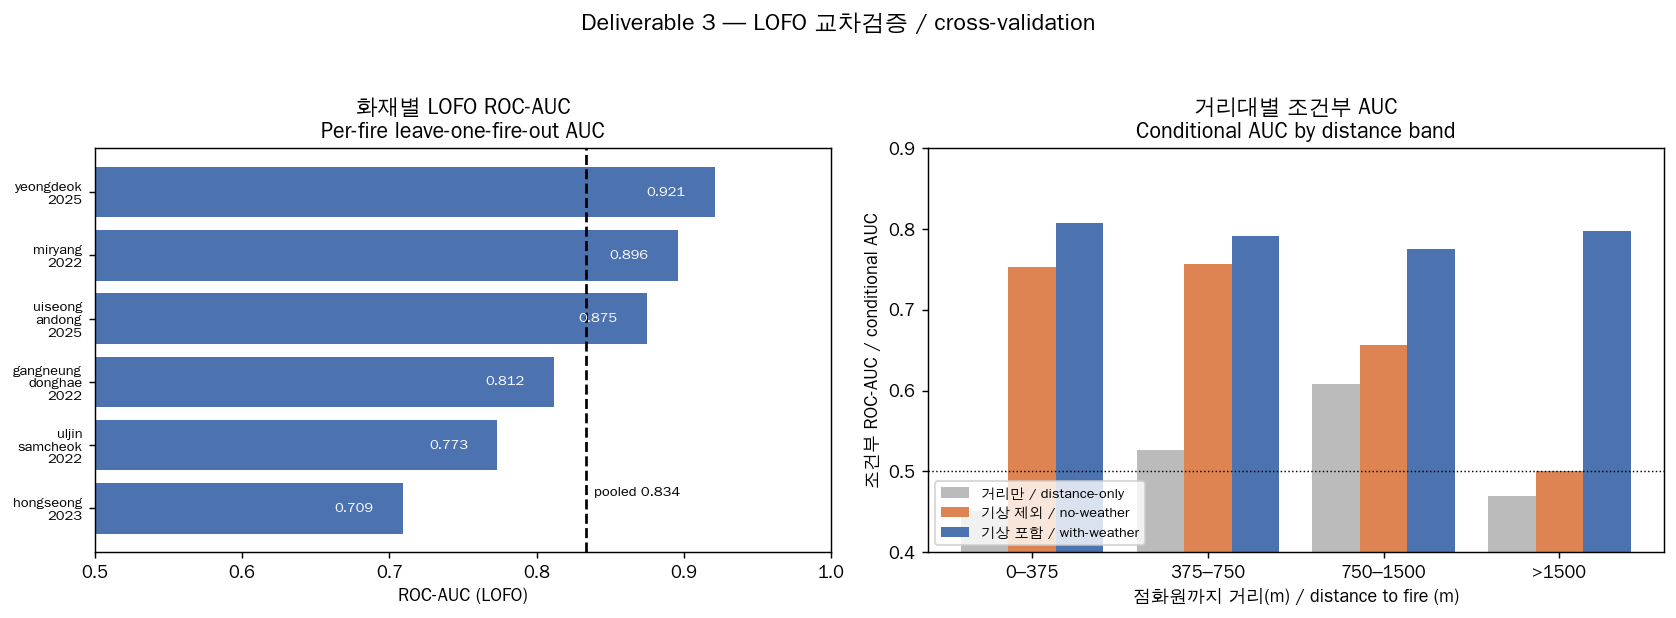
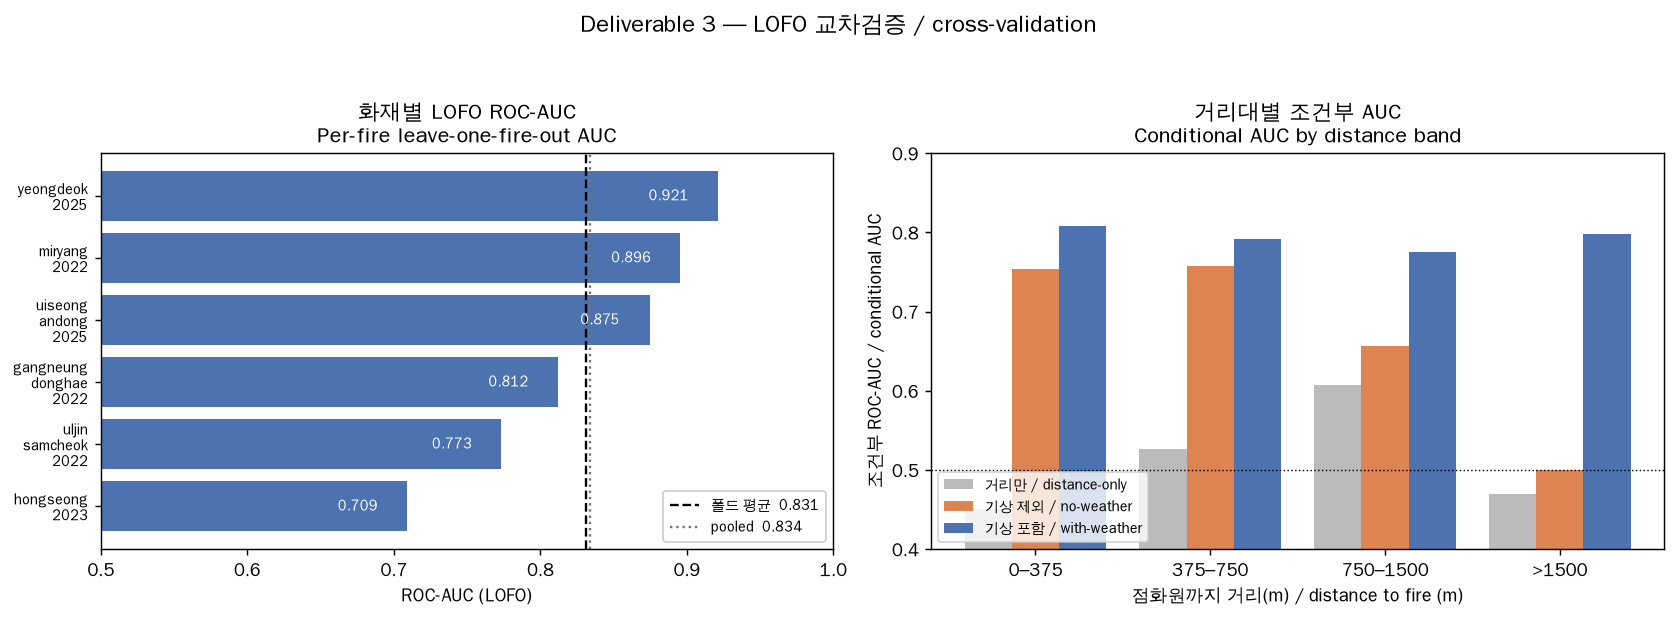
Fix overlapping reference-line labels in LOFO AUC figure (left panel)
The per-fire LOFO ROC-AUC panel (left) of spread_v2_lofo_auc.png drew the
pooled reference line's value with an inline ax.text() label that sat on the
x-axis ticks and could collide with the title. Replace the inline text with a
legend (lower-right, inside the axes) and draw both the fold-mean and pooled
lines, so both values read cleanly without overlapping each other, the "0.9"
x-tick, or the title. Right panel (conditional AUC by distance band) untouched.

Values come from the committed lofo_metrics.json (pooled 0.834, fold-mean
0.831). Note: the DeLong-error-bar + burned-area-IoU variant (pooled 0.905)
is not present in the repo and its data (auc_intervals.json) is git-ignored,
so that exact figure cannot be regenerated here.

Regenerated docs/figures/spread_v2_lofo_auc.png.

https://claude.ai/code/session_013vyk2U4q5bqcUmwwaoLtuP

diff --git a/scripts/spread_v2/06_figures.py b/scripts/spread_v2/06_figures.py
@@ -120,9 +120,18 @@ def fig_lofo(oof):
     for i, a in enumerate(aucs):
         ax[0].text(a - 0.02, i, f"{a:.3f}", va="center", ha="right",
                    color="white", fontsize=8, fontweight="bold")
-    ax[0].axvline(lofo["summary"]["overall_pooled_roc_auc"], ls="--", c="k")
-    ax[0].text(lofo["summary"]["overall_pooled_roc_auc"] + 0.005, 0.2,
-               f"pooled {lofo['summary']['overall_pooled_roc_auc']:.3f}", fontsize=8)
+    # Pooled + fold-mean reference lines shown via a legend rather than inline
+    # ax.text() labels: the inline labels otherwise collide with each other, the
+    # x-axis "0.9" tick and the title. Legend sits inside the axes (lower-right,
+    # an empty region given the ascending sort) so nothing is drawn over the title.
+    fold_mean = float(np.mean(aucs))
+    pooled = lofo["summary"]["overall_pooled_roc_auc"]
+    l1 = ax[0].axvline(fold_mean, ls="--", c="k", lw=1.3,
+                       label=f"폴드 평균  {fold_mean:.3f}")
+    l2 = ax[0].axvline(pooled, ls=":", c="0.45", lw=1.3,
+                       label=f"pooled  {pooled:.3f}")
+    ax[0].legend(handles=[l1, l2], loc="lower right", fontsize=8,
+                 frameon=True, framealpha=0.92, borderpad=0.5)
     ax[0].set_xlim(0.5, 1.0)
     ax[0].set_xlabel("ROC-AUC (LOFO)")
     ax[0].set_title("화재별 LOFO ROC-AUC\nPer-fire leave-one-fire-out AUC")
